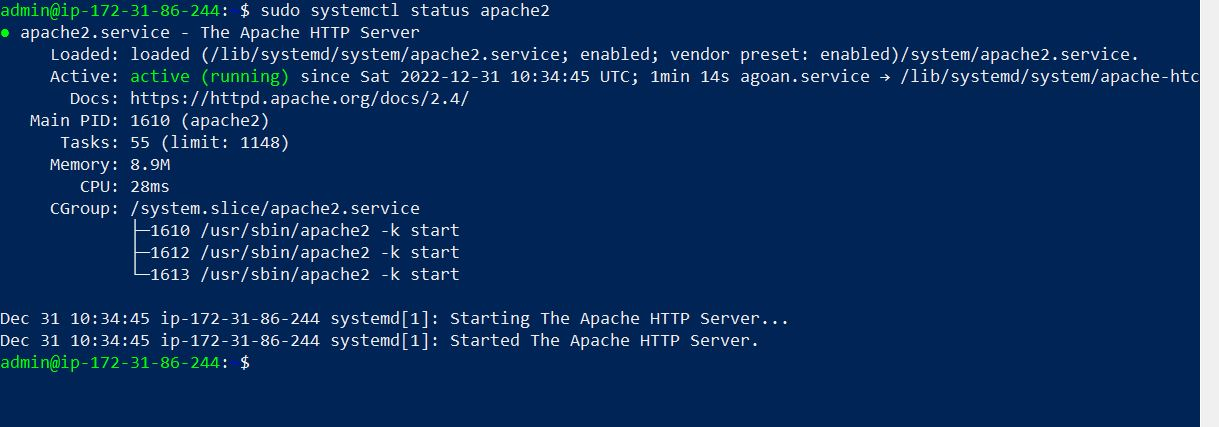
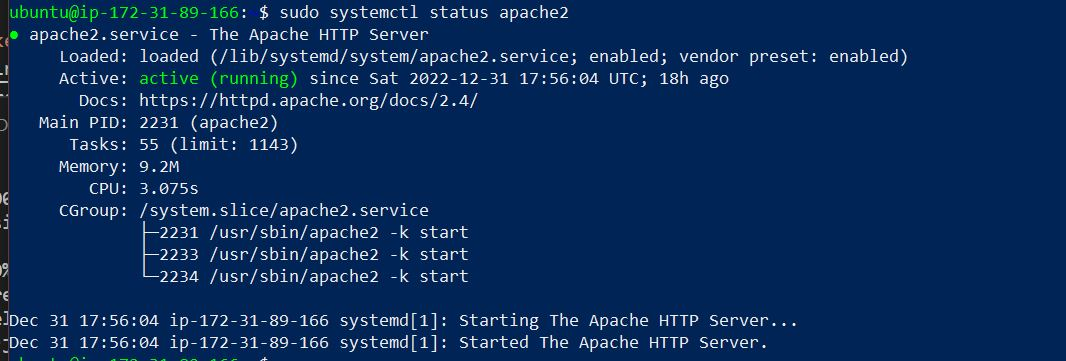
LAMP STACK 1.0

Changed region(s): [[0.0, 0.0, 1.0, 1.0]]

diff --git a/project1.md b/project1.md
@@ -1,13 +1,115 @@
 ## Detailed Documentation of Project 1
 
-'sudo apt update'
+For software installation, start with updating the local repository 
 
-'sudo apt install apache2'
+    'sudo apt update'
 
-'sudo systemctl status apache2'
+A. Install Apache
+
+    'sudo apt install apache2'
+
+Verify Status of Apache 
+
+    'sudo systemctl status apache2'
 
 ![Apache Status](./Images/Apache2-Status.JPG)
 
-- [Install OpenSSH](https://learn.microsoft.com/en-us/windows-server/administration/openssh/openssh_install_firstuse?tabs=gui)
+Apache Homepage through http
 
-- [OpenSSH key management](https://learn.microsoft.com/en-us/windows-server/administration/openssh/openssh_keymanagement)
+![Apache Home](./Images/Apache2-Home.JPG)
+
+
+B. MySql Installation 
+
+    'sudo apt install mysql-server'
+
+Verify MySql is installed
+
+    'sudo mysql'
+![mysql-server installed](./Images/mysql-installed.JPG)
+- To set password for the database root user
+
+        'ALTER USER 'root'@'localhost' INDENTIFIED WITH mysql_native_password BY 'PassWord.1' ; 
+- To validate passowrd plugin and restrict access and disable remote access
+
+         'sudo mysql_secure_installation' 
+
+
+
+C. Installing PHP
+
+    'sudo apt install php libapache2-mod-php php-mysql'
+
+Verify installation
+![PHP Installation](/Project-LAMP-STACK/Images/php%20installed.JPG)
+
+D. Create Virtual Host
+
+Make directory for projectlamp
+
+        'sudo mkdir /var/www/projectlamp'
+
+Assign ownership of directory with current user
+
+    'sudo chown -R $USER:$USER /var/www/projectlamp'
+
+Create a new configuration file for Virtual Host  in Apache's sites-available directory using 
+
+    'sudo vi /etc/apache2/sites-available/ projectlamp.conf'
+
+![Virtual Host](/Project-LAMP-STACK/Images/VirtulHost.JPG)
+
+
+Use a2ensite to enable Virtual Host and using /var/www/projectlamp as web root directory
+
+        'sudo a2ensite projectlamp'
+![Enable projectlamp](/Project-LAMP-STACK/Images/ProjectLamp.JPG)
+
+Disabling the Apache default website
+        
+       ' sudo a2dissite 000-default' 
+![Disable default](/Project-LAMP-STACK/Images/disabledefault.JPG)
+
+
+To check that configuration file does not contain errors
+
+        'sudo apache2ctl configtest'
+![Config File Test](/Project-LAMP-STACK/Images/ApacheConfigTest.JPG)
+
+Reload Apache 
+
+        'sudo systemctl reload apache2'
+
+Creating index file in web root to test the virtual host
+
+        'sudo echo 'Hello LAMP from hostname' $(curl -s http://169.254.169.254/latest/meta-data/public-hostname) 'with public IP' $(curl -s http://169.254.169.254/latest/meta-data/public-ipv4) > /var/www/projectlamp/index.html
+
+Test result from browser
+
+![Config Test](/Project-LAMP-STACK/Images/ConfigTest.JPG)
+
+E. Enable PHP on the website
+To enable index.php over index.html, edit dir.conf to change the order
+
+    'sudo vim /etc/apache2/mods-enabled/dir.conf' 
+![Config Order](/Project-LAMP-STACK/Images/changeOfOrder.JPG)
+Then reload apache
+
+    'sudo systemctl reload apache2' 
+
+
+Create index.php file
+
+    'vim /var/www/projectlamp/index.php
+
+And write 
+
+![Php code](/Project-LAMP-STACK/Images/phpcode.JPG)
+
+
+Refresh the page to see index.php display
+
+![Php homepage](/Project-LAMP-STACK/Images/index.php.JPG)
+
+
+
